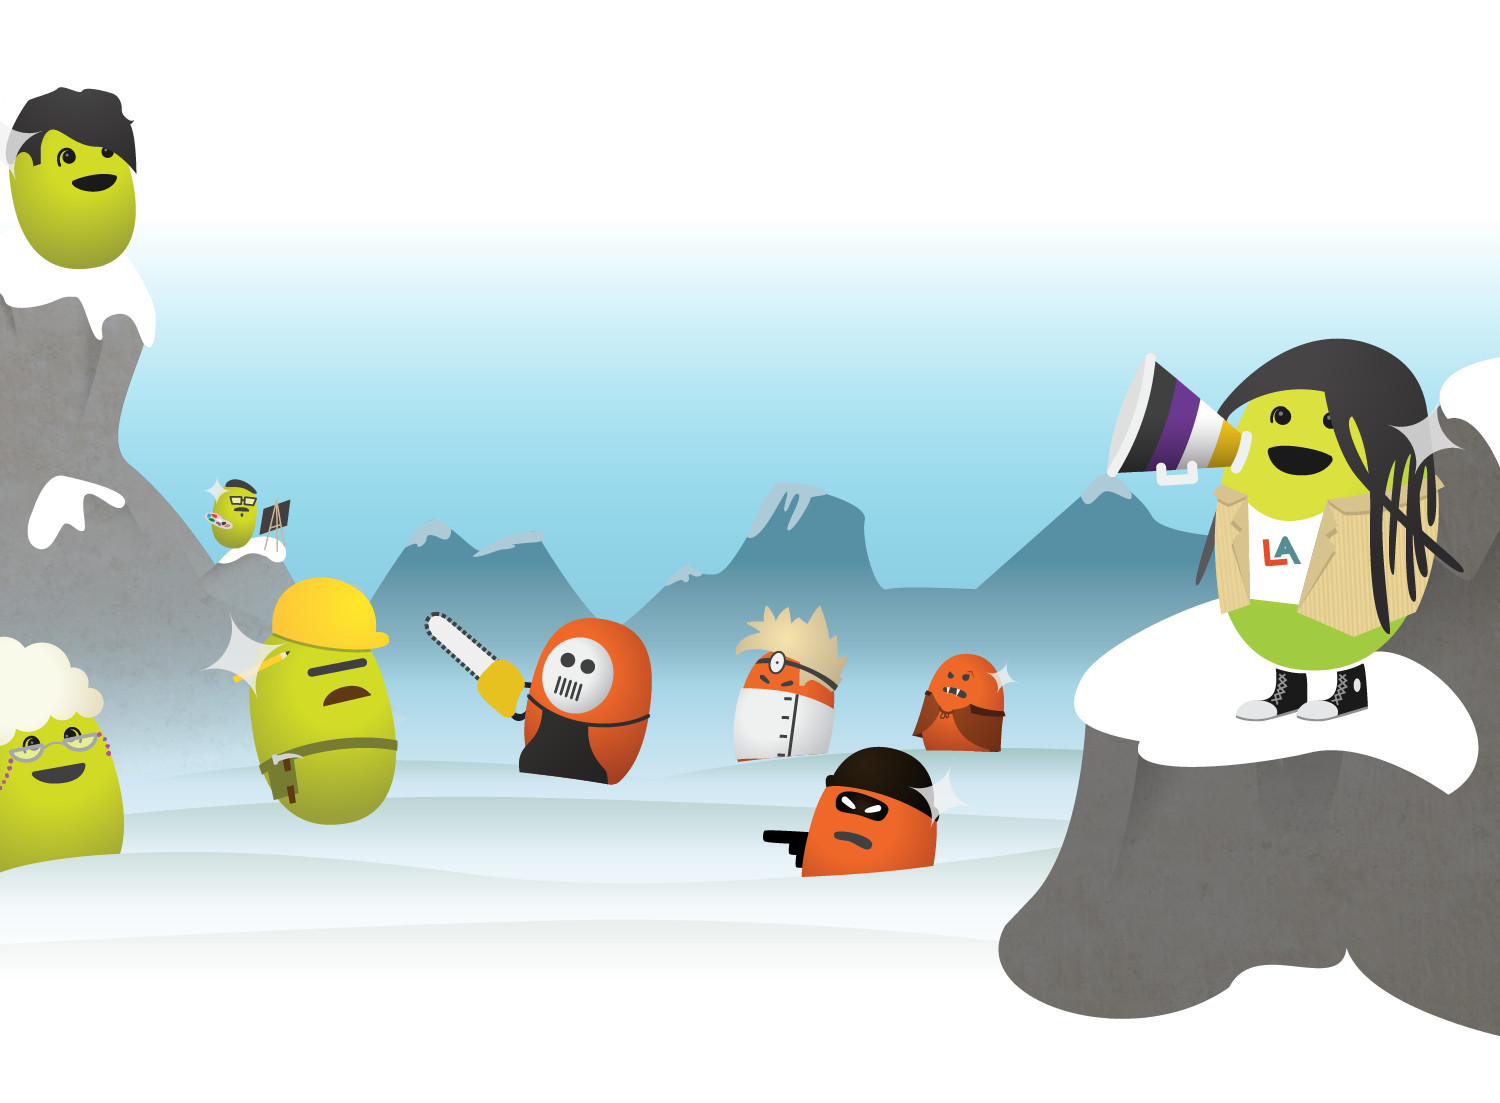
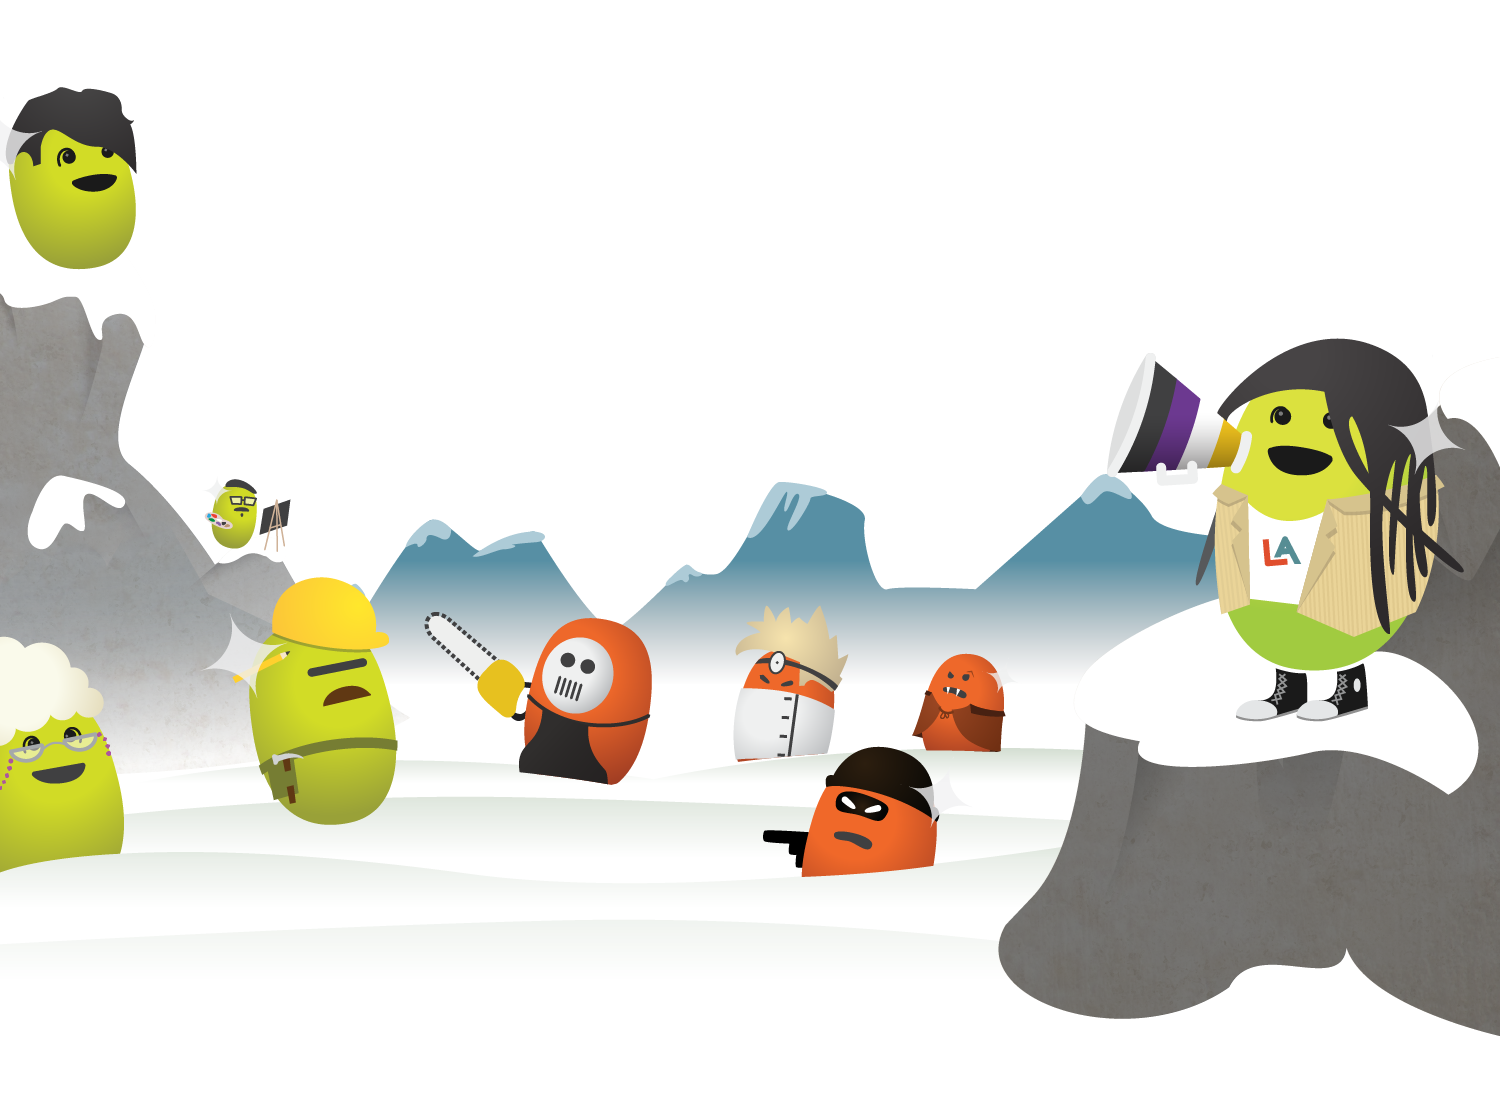
more homepage updates

Changed region(s): [[0.0613, 0.2466, 1.0, 0.8015]]

diff --git a/static/index.html b/static/index.html
@@ -63,134 +63,163 @@
               </div>
             </a>
           </div>
-      </header>
-      <div class="card shadow">
-        <div class="flex card-header">
-          <img class="icon" src="/images/relax.png">
-          <h1>Come In And Stay For A While!</h1>
+        </header>
+        <div class="card shadow">
+          <div class="flex card-header">
+            <img class="icon" src="/images/relax.png">
+            <h1>Come In And Stay For A While!</h1>
+          </div>
+          <p class="bold-italic">Welcome to LibRAL Arts, an escape from the internet, without leaving the comfort of the internet.</p>
+          <div class="flex home-flex">
+            <div>
+              <p><span class="bold">Enter the labyrinth of innovative and interactive content spaces in <span class="italic">House Geek</span></span> with Lou the non-binary neurodivergent digital overlord of LibRAL Arts! </p>
+              <img src="/images/home-hero-hg.png" alt="grayscale graphic of Lou with a chicken and two chicks">
+            </div>
+            <div id="or">
+              <div class="vert-line"></div>
+              <p class="bold" style="margin:1rem;">OR</p>
+              <div class="vert-line"></div>
+            </div>
+            <div>
+              <p><span class="bold">Explore the themed collections of apparel and functional products on our store,</span> which is packed with thousands of unique souvenirs to remind you of your visit.</p>
+              <img src="/images/home-hero-store.png" alt="grayscale graphic of products in a store">
+            </div>
+          </div>
+          <p class="italic" style="margin-top:.5rem;">Allow us to entertain you while challenging you to think!</p>
         </div>
-        <p class="bold-italic">Welcome to LibRAL Arts, an escape from the internet, without leaving the comfort of the internet.</p>
-        <div class="flex home-flex">
-          <div>
-            <p><span class="bold">Enter the labyrinth of innovative and interactive content spaces in <span class="italic">House Geek</span></span> with Lou the non-binary neurodivergent digital overlord of LibRAL Arts! </p>
-            <img src="/images/home-hero-hg.png" alt="grayscale graphic of Lou with a chicken and two chicks">
+        <div class="card shadow">
+          <div class="flex card-header">
+            <img class="icon" src="/images/LA.png">
+            <h1>What is Libral Arts?</h1>
           </div>
-          <div id="or">
-            <div class="vert-line"></div>
-            <p class="bold" style="margin:1rem;">OR</p>
-            <div class="vert-line"></div>
+          <div id="home-lou-quote">
+            <p class="italic">"It is difficult to feel connected to our communities when the spaces where we are celebrated have been compromised by the violence of war and the weaponization of ignorance."</p>
           </div>
-          <div>
-            <p><span class="bold">Explore the themed collections of apparel and functional products on our store,</span> which is packed with thousands of unique souvenirs to remind you of your visit.</p>
-            <img src="/images/home-hero-store.png" alt="grayscale graphic of products in a store">
-          </div>
+          <p>In response, we envisioned a new kind of immersive online environment that would become a familiar companion over time, like visiting a good friend, or your favorite establishment.</p> 
+          <p>Within this site we have created an oasis of worlds for you to explore<span class="bold"> — an online safe space that anyone can access from anywhere — to replenish just a little of what we have collectively lost.</span></p>
         </div>
-        <p class="italic" style="margin-top:.5rem;">Allow us to entertain you while challenging you to think!</p>
       </div>
-      <div class="card shadow">
-        <div class="flex card-header">
-          <img class="icon" src="/images/LA.png">
-          <h1>What is Libral Arts?</h1>
+      <div id="fp-wrapper">
+        <picture>
+          <source media="(min-width: 1200px)" srcset="/images/fp-hero-xl.png">
+          <source media="(min-width: 680px)" srcset="/images/fp-hero.png">
+          <img id="fp-header" src="/images/fp-hero-sm.png" alt="Featured Products">
+        </picture>
+        <div id="featured-products"></div>
+        <div class="xl-row" id="featured-products-row-2">
+          <picture>
+            <source media="(min-width: 1200px)" srcset="/images/fp-hero-2-xl.png">
+            <source media="(min-width: 680px)" srcset="/images/fp-hero-2.png">
+            <img id="fp-hero" src="/images/fp-hero-2-sm.png" alt="Featured Products">
+          </picture>
+          <div class="inset-row">
+            <div class="column" id="featured-products-text-col" style="flex: 1.5;">
+              <h4>A souvenir to remind you of your visit</h4>
+              <p>Browse our LibRAL Arts Souvenir Shop, a magical and liberal land where we use art and humor to challenge the world to think.</p>   
+              <p class="bolder">Each themed collection is a tactic for social responsibility.</p> 
+              <p>Help us increase the public's exposure to the subject matter, people, and long-term causes that are featured in each custom functional artwork. Through familiarity, we combat ignorance!</p>
+              <div class="flex" style="justify-content: flex-start">
+                <a href="store.html" class="striped-button flex">
+                  <img src="/images/cart-dark.png">
+                  <p class="bolder caps">Browse Our Store</p>
+                </a>
+                <p class="bold" style="margin-left:1rem;">Turns out that doing the right thing <br>for the right reason is also the solution.</p>
+              </div>
+            </div>
+            <div class="column">
+              <h4>Win the Internet!</h4>
+              <p>Savings are stashed cleverly around LibRAL Arts, waiting for investigative individuals to discover their locations. Let the hunt for hidden coupon codes begin.</p>
+              <div class="flex">
+                <img src="/images/win-the-internet.png" alt="A trophy labeled 'coupon code' next to a treasure map and blue ribbon" style="width: 25%;">
+                <p class="italic">The first one to the end of the scavenger hunt wins the Internet!</p>
+              </div>
+            </div>
+          </div>  
         </div>
-        <div id="home-lou-quote">
-          <p class="italic">"It is difficult to feel connected to our communities when the spaces where we are celebrated have been compromised by the violence of war and the weaponization of ignorance."</p>
-        </div>
-        <p>In response, we envisioned a new kind of immersive online environment that would become a familiar companion over time, like visiting a good friend, or your favorite establishment.</p> 
-        <p>Within this site we have created an oasis of worlds for you to explore<span class="bold"> — an online safe space that anyone can access from anywhere — to replenish just a little of what we have collectively lost.</span></p>
       </div>
-    </div>
-    <div id="fp-wrapper">
-      <picture>
-        <source media="(min-width: 1200px)" srcset="/images/fp-hero-xl.png">
-        <source media="(min-width: 680px)" srcset="/images/fp-hero.png">
-        <img id="fp-header" src="/images/fp-hero-sm.png" alt="Featured Products">
-      </picture>
-      <div id="featured-products"></div>
-      <div class="xl-row" id="featured-products-row-2">
+      <div class="flex-row flex" id="house-geek">
         <div class="column">
-          <h3>A souvenir to remind you of your visit!</h3>
-          <p>Browse our LibRAL Arts Souvenir Shop, a magical and liberal land where we use art and humor to challenge the world to think.</p>   
-          <p>Each themed collection we curate uses functional art to multiply public familiarity with the subjects and/or people featured in each custom piece. Our tactic for social and environmental responsibility is to use the familiarity we cultivate to dispel the fear connected to oppression and ignorance connected to harm.</p>
+          <img src="/images/house-geek.png">
         </div>
         <div class="column">
-          <h4>Win the Internet!</h4>
-          <p>Savings are stashed cleverly around LibRAL Arts, waiting for investigative individuals to discover their locations. Let the hunt for hidden coupon codes begin! The first one to the end of the scavenger hunt wins the Internet!</p>
-          <a href="store.html" class="striped-button flex">
-            <img src="/images/cart-dark.png">
-            <p class="bolder caps">Browse Our Store</p>
-          </a>
-        </div>
+          <h2 style="padding-bottom:1rem;">A FAMILIAR SPACE TO COME IN AND SPEND SOME TIME</h2>
+          <p>Prepare thyself for adventure awaits! Lou, the non-binary neurodivergent overlord of LibRAL Arts will guide you as you scroll down-screen. Locked in the rooms of House Geek are playgrounds of content for your curious eyes.</p>
+        </div>   
       </div>
-    </div>
-    <div class="flex-row flex" id="house-geek">
-      <div class="column">
-        <img src="/images/house-geek.png">
-      </div>
-      <div class="column">
-        <h2 style="padding-bottom:1rem;">The rooms of House Geek await your curious eyes! </h2>
-        <p>House Geek is the social media alternative that immerses you in content that entertains you while challenging you to think, The artful labyrinth of scenes below reflects the life, love, and struggles of geeky and cheeky duo creators and their secret inner worlds</p>
-        <a href="#" class="striped-button alternates" style="text-align:center">HOUSE GEEK archives</a>
-      </div>
-    </div>
-    <div id="house-rows">
-      <div class="flex-row house-row flex flex">
-        <div class="column" style="flex:2">
-          <img src="/images/house-geek/hackingbauhausfarmhouse.png" alt="log cabin illustration">
+      <div class="flex-row" id="house-geek-2">
+          <div class="column">
+            <h2 style="padding-bottom: .5rem;">The rooms of House Geek await your curious eyes!</h2>
+            <p>House Geek is the social media alternative that immerses you in content that entertains you while challenging you to think. The artful labyrinth of spaces inside reflects the life, love, and struggles of geeky and cheeky duo creators and their secret inner worlds.</p>
+          </div>
+          <div class="column">
+            <div id="red-box">
+              <p class="bolder caps justify">Browse | Visit | Stream | Read</p>
+              <p class="bolder caps justify">Laugh | Listen | Celebrate | Validate</p>
+            </div>
+            <p class="center italic">Discover what's new since your last visit & <br>enjoy today's digital browsing adventure!</p>
+          </div>
+        </div>  
+      <div id="house-rows">
+        <div class="flex-row house-row flex">
+          <div class="column" style="flex:2">
+            <img src="/images/house-geek/traditions.png" class="hg-image" alt="log cabin illustration">
+          </div>
+          <div class="column" style="flex:1">
+            <h2 class="blue-underline">TRADITIONS</h2>
+            <p>Traditions bind us to our communities, and for those who didn't inherit traditions from their ancestors–or have had to leave those traditions behind–Lou has invented a calendar of quirky holidays to celebrate chosen family. <span class="bold italic">We are bound together, not with capitalism, but with tradition. Welcome to the family.</span></p>
+            <a href="#" class="red-button">Enter</a>
+          </div>
         </div>
-        <div class="column" style="flex:1">
-          <h2 class="blue-underline">HACKING BAUHAUS FARMHOUSE</h2>
-          <p><span class="bold-italic">Traditions are an opportunity for intergenerational communication.</span> Traditions set the stage for how the world looks to our children and can impact anyone we share them with. Join Lou and celebrate "Douglas style", with holidays you have never heard of and traditions to match.</p>
-          <a href="#" class="red-button">Enter</a>
+        <div class="flex-row house-row flex">
+          <div class="column" style="flex:2">
+            <img src="/images/house-geek/funnypages.png" class="hg-image" alt="log cabin illustration">
+          </div>
+          <div class="column" style="flex:1">
+            <h2 class="blue-underline">FUNNY PAGES</h2>
+            <p><span class="bold-italic">Laugh quickly, before you begin to cry…</span> One little truth at a time. Lou has FEELINGS about our world's trajectory and isn't afraid to draw about it. Through a landscape of comic strips, the truth comes out, and like barf, what a relief!</p>
+            <a href="#" class="red-button">Enter</a>
+          </div>
         </div>
-      </div>
-      <div class="flex-row house-row flex">
-        <div class="column" style="flex:2">
-          <img src="/images/house-geek/traditions.png" class="hg-image" alt="log cabin illustration">
+        <div class="flex-row house-row flex">
+          <div class="column" style="flex:2">
+            <img src="/images/house-geek/queerstarterkit.png" class="hg-image" alt="log cabin illustration">
+          </div>
+          <div class="column" style="flex:1">
+            <h2 class="blue-underline">QUEER STARTER KIT</h2>
+            <p><span class="bold-italic">Rock, paper, scissors. Fear fuels hatred. Hatred is dispelled by information. Information unwinds fear.</span> Here we have a safe space for new and journeying queerbies to access community support and information we all should internalize.</p>
+            <a href="#" class="red-button">Enter</a>
+          </div>
         </div>
-        <div class="column" style="flex:1">
-          <h2 class="blue-underline">TRADITIONS</h2>
-          <p><span class="bold-italic">One little truth at a time...</span> Browse Lou’s commentary through a world of chickens. Chicken scratch chickens portray heavy subjects with a light hearted comic strip.</p>
-          <a href="#" class="red-button">Enter</a>
+        <div class="flex-row house-row flex">
+          <div class="column" style="flex:2">
+            <img src="/images/house-geek/bootstrappublications.png" class="hg-image" alt="log cabin illustration">
+          </div>
+          <div class="column" style="flex:1">
+            <h2 class="blue-underline">BOOTSTRAP PUBLICATIONS</h2>
+            <p>Lou presents a publishing house dedicated to the free exchange of information and the art of intergenerational storytelling through the written word. <span class="bold-italic">Books and short stories are periodically released in free digital installments.</span></p>
+            <a href="#" class="red-button">Enter</a>
+          </div>
         </div>
-      </div>
-      <div class="flex-row house-row flex">
-        <div class="column" style="flex:2">
-          <img src="/images/house-geek/funnypages.png" class="hg-image" alt="log cabin illustration">
+        <div class="flex-row house-row flex">
+          <div class="column" style="flex:2">
+            <img src="/images/house-geek/ninetofiveless.png" class="hg-image" alt="log cabin illustration">
+          </div>
+          <div class="column" style="flex:1">
+            <h2 class="blue-underline">NINE TO FIVELESS</h2>
+            <p><span class="bold italic">Art for all them-kind—except white supremacists! Lou definitely doesn't do racists or bigots…</span>
+              The Nine to Fiveless is as much a lifestyle as it is a digital performance space and online art gallery. Our visual and sonic statements rally against capitalism, colonialism, norms of society, and, you guessed it, white supremacy! <span class="italic">Listen to music from Blue Marlin Records and Safety First Sound</span></p>
+            <a href="#" class="red-button">Enter</a>
+          </div>
         </div>
-        <div class="column" style="flex:1">
-          <h2 class="blue-underline">FUNNY PAGES</h2>
-          <p><span class="bold-italic">A book of short stories, released one chapter at a time.</span> Each chapter reminisces over small moments of Lou's past with a humorous look at the events that shaped the present. Using hyperbole as therapy, true stories create comic relief for Lou and the reader alike.</p>
-          <a href="#" class="red-button">Enter</a>
-        </div>
-      </div>
-      <div class="flex-row house-row flex">
-        <div class="column" style="flex:2">
-          <img src="/images/house-geek/queerstarterkit.png" class="hg-image" alt="log cabin illustration">
-        </div>
-        <div class="column" style="flex:1">
-          <h2 class="blue-underline">QUEER STARTER KIT</h2>
-          <p><span class="bold-italic">Deceiving to conceal is different than deceiving to reveal.</span> Lou plays the public in this collection of cons, all executed to teach a lesson. Enjoy stories of cons past and participate in ongoing missions to change public perception.</p>
-          <a href="#" class="red-button">Enter</a>
-        </div>
-      </div>
-      <div class="flex-row house-row flex">
-        <div class="column" style="flex:2">
-          <img src="/images/house-geek/bootstrappublications.png" class="hg-image" alt="log cabin illustration">
-        </div>
-        <div class="column" style="flex:1">
-          <h2 class="blue-underline">BOOTSTRAP PUBLICATIONS</h2>
-          <p><span class="bold-italic">Solving the world's problems one hack at a time..</span> Lou explores lost old ways and methods as well as new technological options to solve problems in an innovative combination of the two. Inspired by the string of creative dad hacks used to make camping a fancy experience, Lou brings new products to the family famous “Geezer” line, and explains how you can make it yourself.</p>
-          <a href="#" class="red-button">Enter</a>
-        </div>
-      </div>
-      <div class="flex-row house-row flex">
-        <div class="column" style="flex:2">
-          <img src="/images/house-geek/ninetofiveless.png" class="hg-image" alt="log cabin illustration">
-        </div>
-        <div class="column" style="flex:1">
-          <h2 class="blue-underline">NINE TO FIVELESS</h2>
-          <p><span class="bold-italic">Failure is an opportunity for growth.</span> The path to learning is more often than not blocked by our own fear of admitting what we don't know. In this space we celebrate the things we don't understand by revealing the bumpy path to ingest the information itself and addressing the reasons we felt uncomfortable that we didn't have these answers in the first place.<br><br>If we are brave enough to fail, then there is no limit to what we can learn.</p>
-          <a href="#" class="red-button">Enter</a>
+        <div class="flex-row house-row flex flex">
+          <div class="column" style="flex:2">
+            <img src="/images/house-geek/hackingbauhausfarmhouse.png" alt="log cabin illustration">
+          </div>
+          <div class="column" style="flex:1">
+            <h2 class="blue-underline">HACKING BAUHAUS FARMHOUSE</h2>
+            <p><span class="bold-italic">Lou hacks sustainability.</span> This ultimate hack-tacular space celebrates working smarter, not harder, and aims to transform the world through the transformation of our perspectives. Lou's neurospicy & resourceful hacks are reproducible for you to replenish your own time & bandwidth.</p>
+            <a href="#" class="red-button">Enter</a>
+          </div>
         </div>
       </div>
     </div>

diff --git a/static/css/home.css b/static/css/home.css
@@ -50,7 +50,7 @@
 }
 #fp-wrapper {
     background-color: var(--paleblue);
-    background:linear-gradient(var(--paleblue), var(--paleblue) 93%, #ffffff)
+    background:linear-gradient(var(--paleblue), var(--paleblue) 70%, #ffffff)
 }
 #fp-header {
     margin-top: -10rem;
@@ -61,20 +61,24 @@
     width: 72rem;
     margin-top: -18rem;
 }
+#fp-hero {
+    width: 100%;
+    margin-top:-100%
+}
 #featured-products-row-2 {
-    background-image: url(/images/fp-hero-2.png);
-    background-repeat: no-repeat;  
+    background: linear-gradient(180deg, rgba(185,215,237,0) 0%, rgba(143,203,223,1) 35%, rgba(0,176,224,0) 80%);  
     margin-top: -18rem;
-    background-size: contain;
-    padding: 68rem 8rem 25rem 6rem;
-    display: flex;
-    align-items: center;
+    padding-top: 68rem;
+    margin-bottom:5rem;
 }
-#featured-products-row-2 .column {
-    margin-left: 2rem;
+#featured-products-row-2 .inset-row {
+    align-items: flex-end;
 }
-#featured-products-row-2 p:not(.bolder.caps) {
+#featured-products-text-col > p:not(.bolder, .caps) {
     margin-bottom: 2rem;
+}
+#featured-products-row-2 .striped-button.flex {
+    width: fit-content;
 }
 #fp-text {
     width: 37rem;
@@ -85,14 +89,25 @@
     background-image: url(/images/hg-ground.png);
     background-repeat: no-repeat;
     background-position: bottom;
-    padding-bottom: 9rem;
-    margin-top: -25rem;
+    padding-bottom: 12rem;
     background-size: 100%;
 }
-#house-geek p{
-    margin-bottom: 3rem;
+#house-geek-2 {
+    align-items: flex-start;
+    margin-top: -3rem;
 }
-#house-rows :nth-child(2n) {
+#red-box {
+    margin: 1rem 3rem;
+    border: .25rem solid var(--lightblue);
+    padding: .5rem 2rem;
+}
+#red-box p {
+    color: var(--lightblue);
+}
+#house-geek p{
+    margin-bottom: 1rem;
+}
+#house-rows :nth-child(2n +1) {
     flex-direction: row-reverse;
 }
 .house-row {
@@ -175,10 +190,6 @@ footer {
         margin-left: 13rem;
         width: 35rem;
     }
-    #featured-products-row-2 {
-        background-image: url(/images/fp-hero-2-sm.png);
-        background-size: 50rem;
-    }
     #cards {
         grid-template-rows: auto auto auto;
         grid-template-columns: auto;
@@ -210,11 +221,7 @@ footer {
         margin-left: 32vw;
         max-width: 51vw;
         margin-bottom: 3rem;
-    }
-    #featured-products-row-2 {
-        background-image: url(/images/fp-hero-2-xl.png);
-        background-size: contain;
-    }    
+    } 
     #fp-text {
         width: 37rem;
         padding: 44vw 0 0 22vw;

diff --git a/static/css/global.css b/static/css/global.css
@@ -160,6 +160,9 @@ a img {
 .small-text {
     font-size: 1rem;
 }
+.justify {
+    text-align-last: justify;
+}
 .fine-print {font-size:1rem;}
 .caps {
     text-transform: uppercase;
